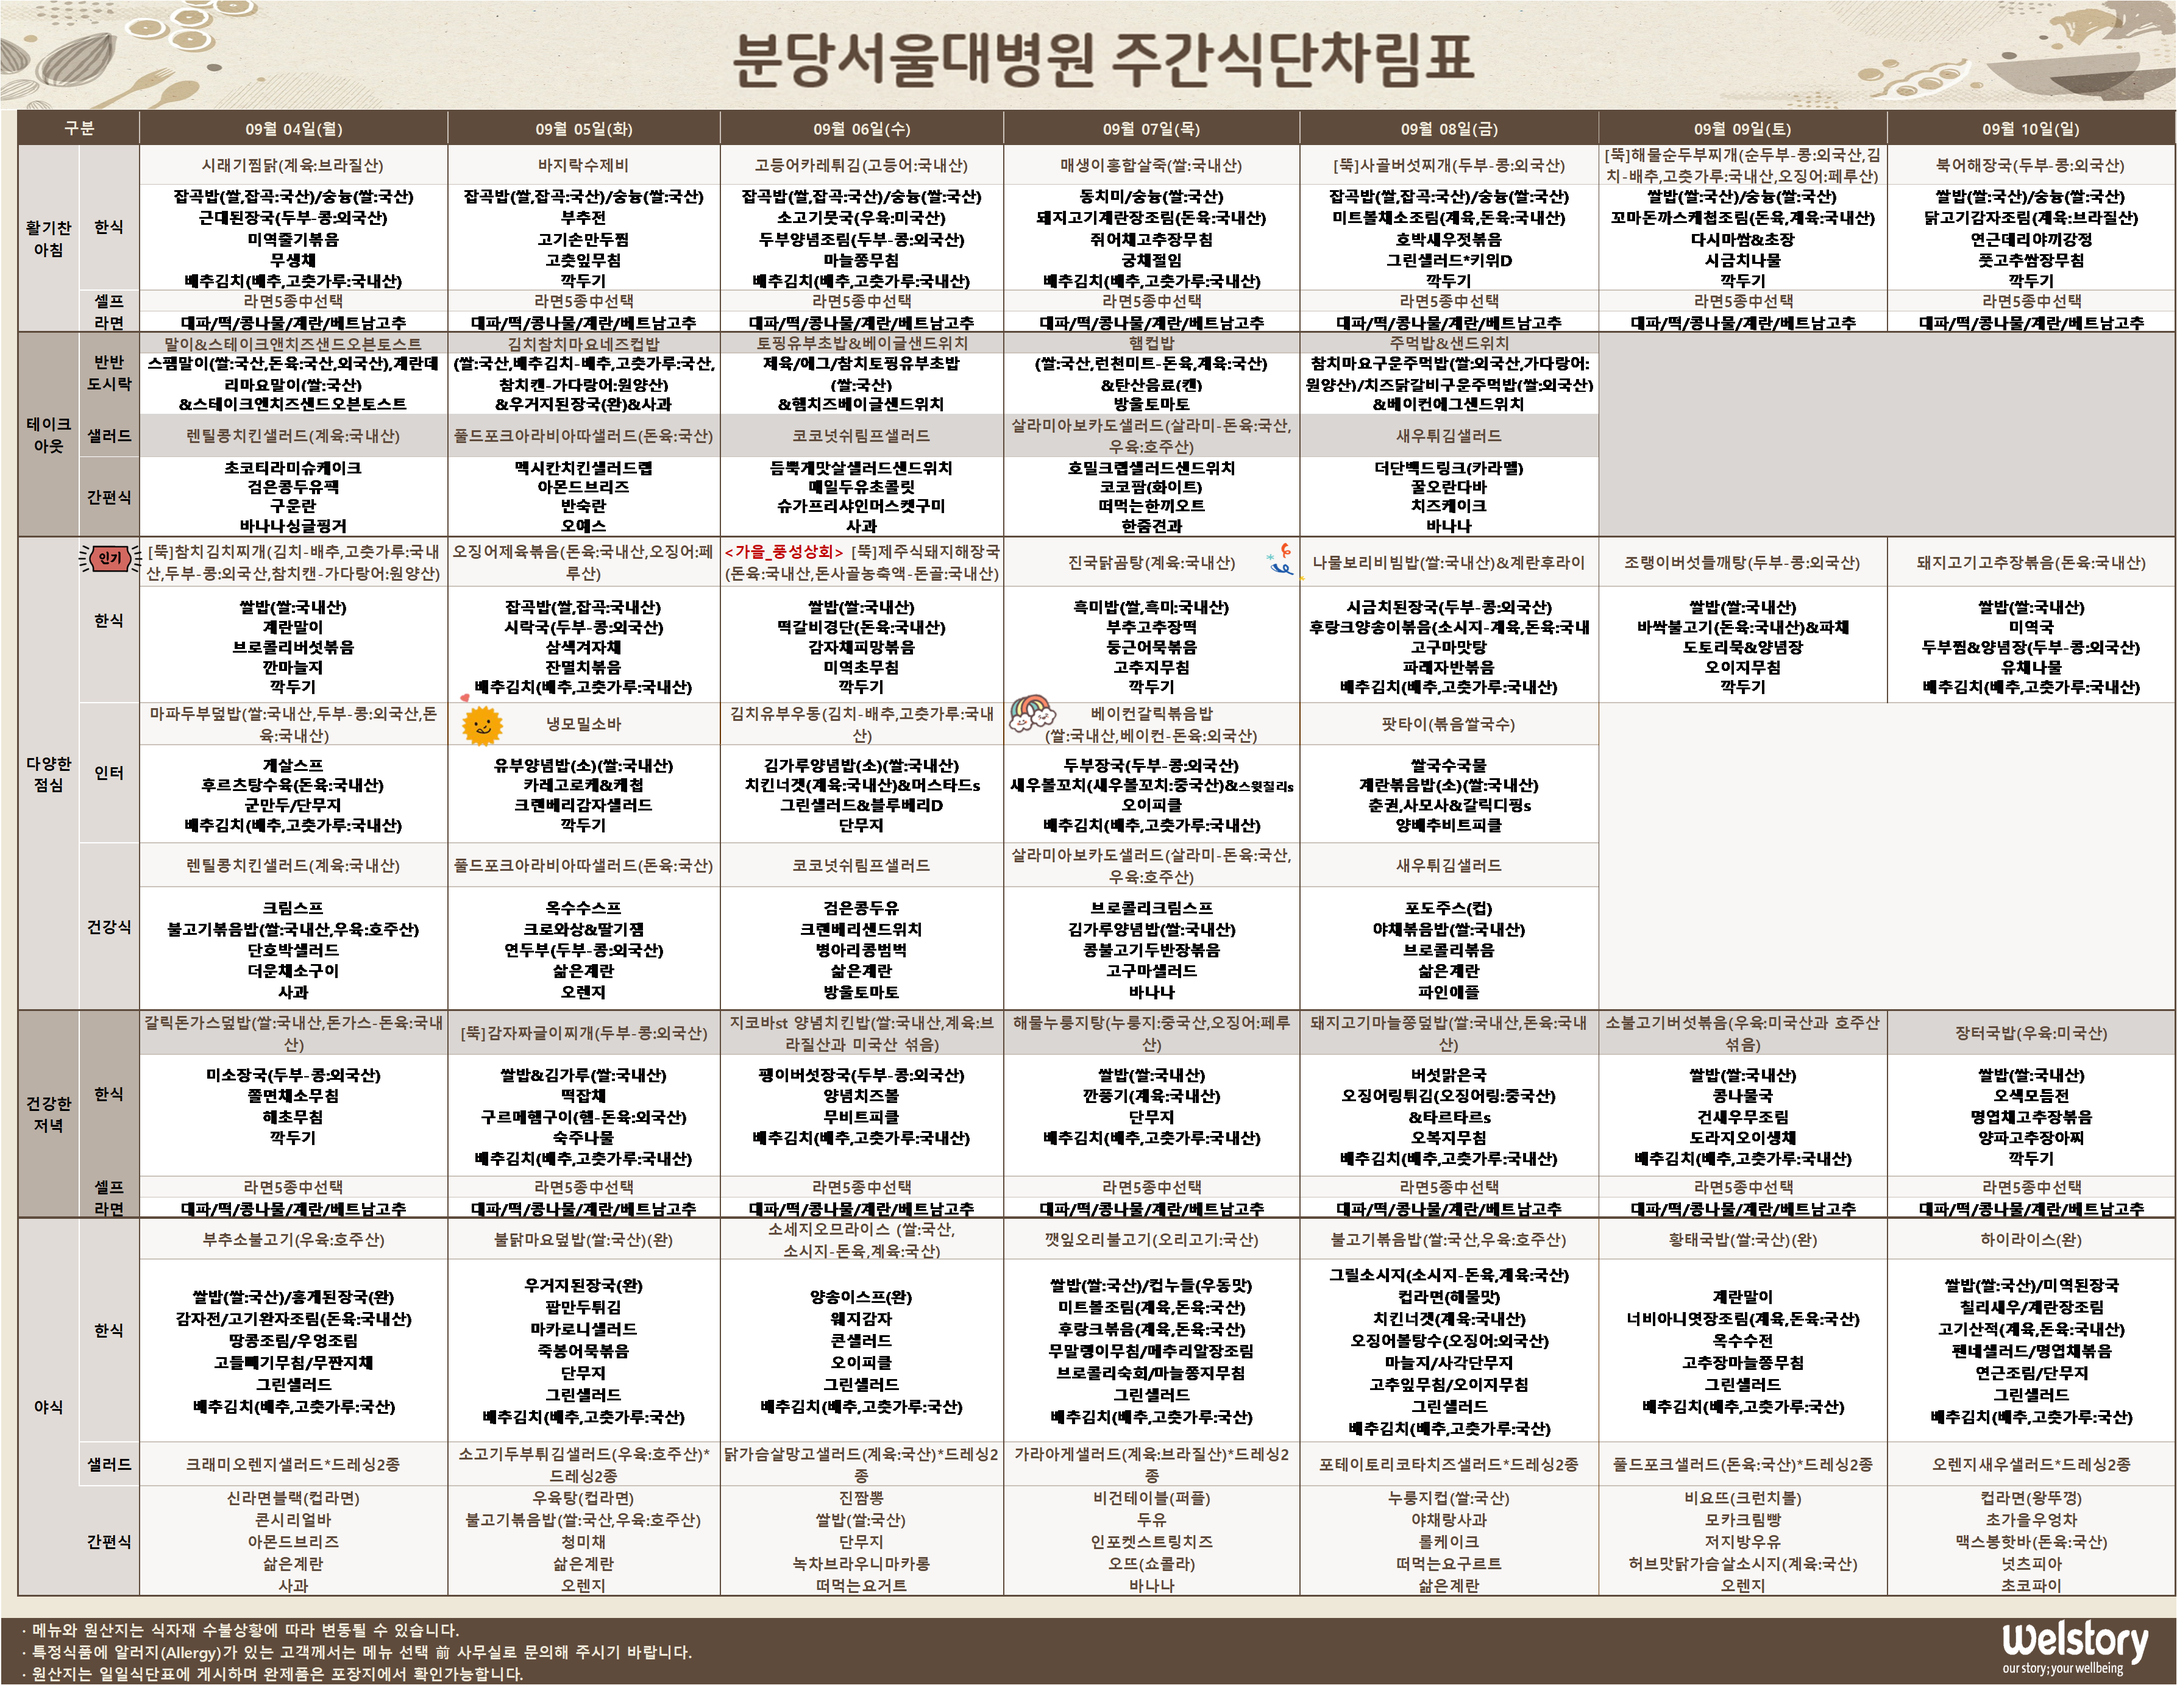
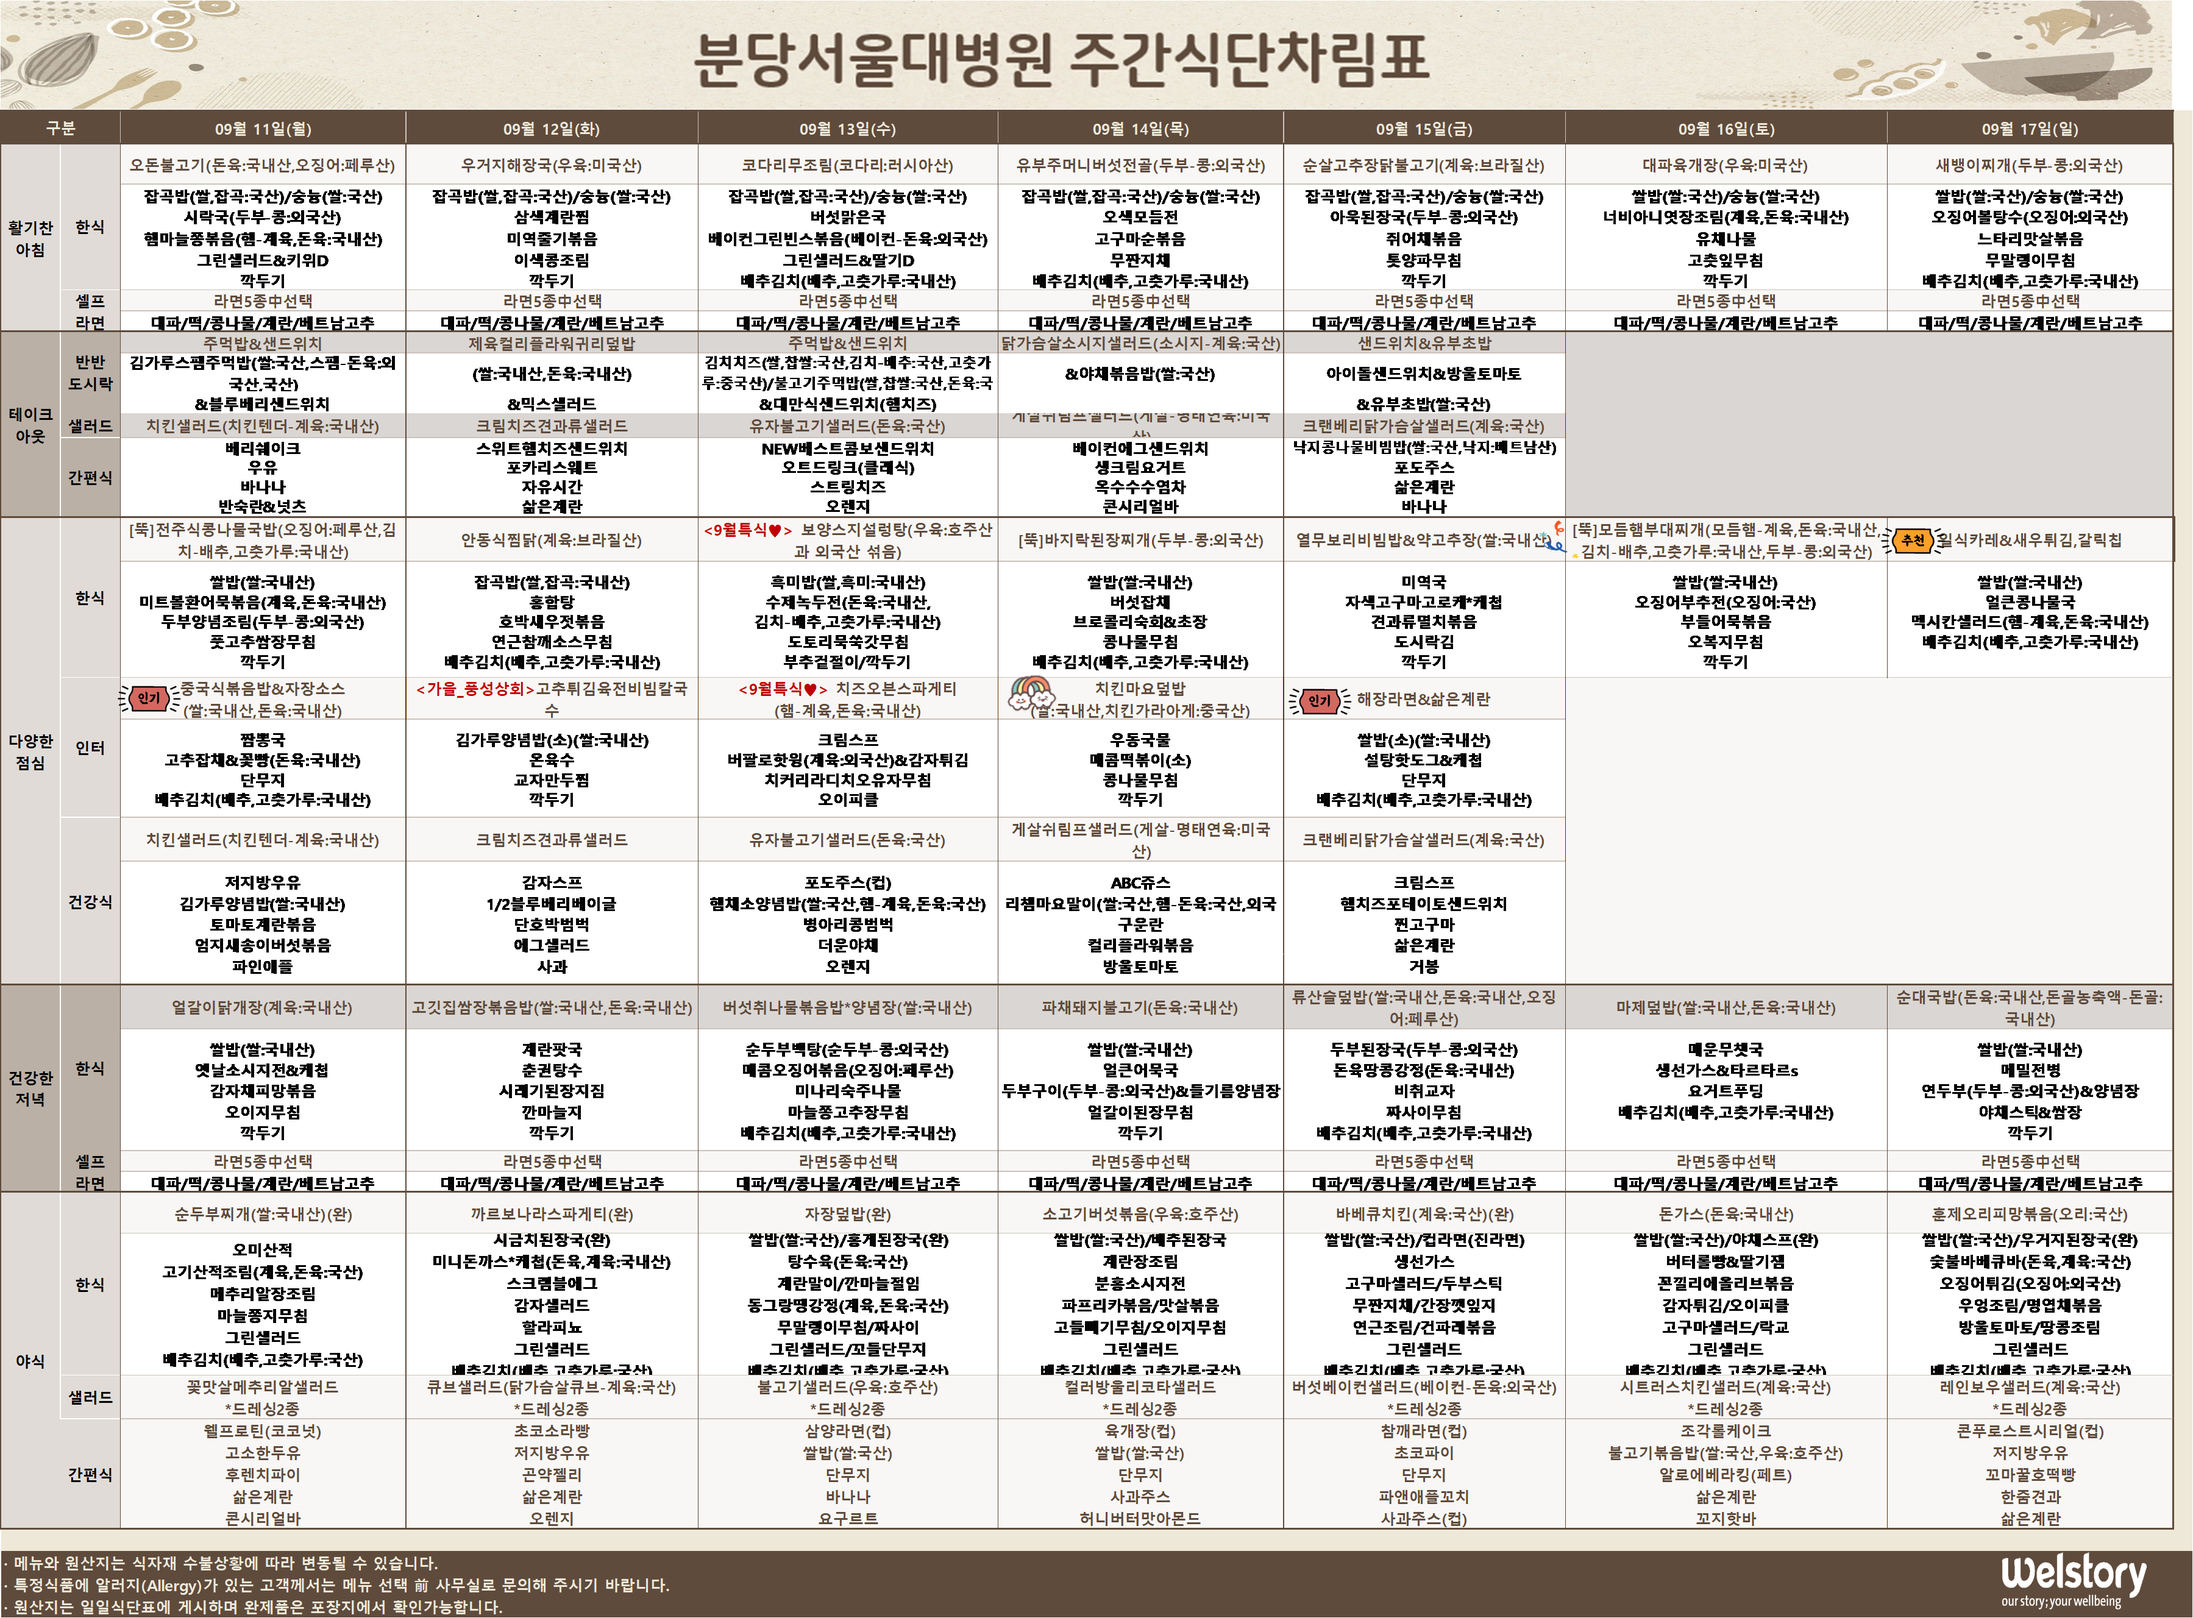
Add files via upload

Changed region(s): [[0.0, 0.0, 1.0, 1.0]]

diff --git a/1/index.html b/1/index.html
@@ -14,7 +14,7 @@
 <br>
 <img src="1.png" width="100%">
 
-<h6> Last update 2023/09/04  </h6>  
+<h6> Last update 2023/09/11  </h6>  
 <h1 >맛있게 드세요.  </h1> 
 
 </body>

diff --git a/6/index.html b/6/index.html
@@ -14,7 +14,7 @@
 <br>
 <img src="6.png" width="100%">
 
-<h6> Last update 2023/09/04  </h6>  
+<h6> Last update 2023/09/11  </h6>  
 <h1 >맛있게 드세요.  </h1> 
 
 </body>

diff --git a/2/index.html b/2/index.html
@@ -15,7 +15,7 @@
 <img src="2.png" width="50%">
 
 
-<h6> Last update 2023/09/04  </h6>  
+<h6> Last update 2023/09/11  </h6>  
 <h1 >맛있게 드세요.  </h1>  
  
 </body>
